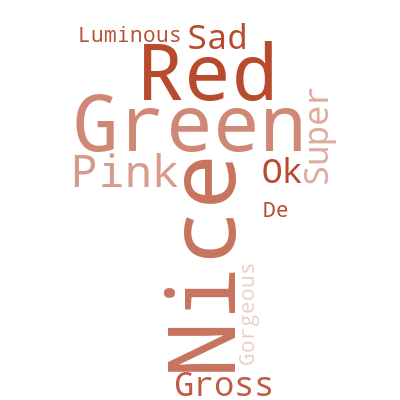
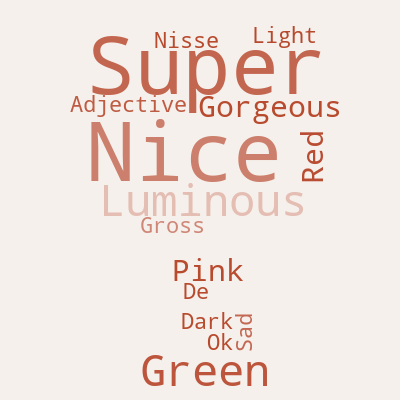
Updated styling

Changed region(s): [[0.18, 0.06, 0.87, 0.99]]

diff --git a/static/style.css b/static/style.css
@@ -323,12 +323,63 @@ button:active {
     box-shadow: none;
 }
 
+/* ─── WORDCLOUD FRAME ─────────────────────────────── */
+.wordcloud-frame {
+    position: relative;
+    display: inline-block;
+    padding: 16px;
+    border-radius: 20px;
+    border: 1.5px solid var(--border);
+    background: var(--frame-bg);
+    box-shadow: var(--frame-shadow);
+    transition: background 0.4s ease, border-color 0.4s ease, box-shadow 0.4s ease;
+}
+
+/* Rounded corner accent marks */
+.wordcloud-frame::before,
+.wordcloud-frame::after {
+    content: '';
+    position: absolute;
+    width: 28px;
+    height: 28px;
+    border-radius: 0;
+    transition: border-color 0.4s ease;
+    pointer-events: none;
+}
+
+.wordcloud-frame::before {
+    top: 6px;
+    left: 6px;
+    border-top: 2px solid var(--accent);
+    border-left: 2px solid var(--accent);
+    border-radius: 8px 0 0 0;
+}
+
+.wordcloud-frame::after {
+    bottom: 6px;
+    right: 6px;
+    border-bottom: 2px solid var(--accent);
+    border-right: 2px solid var(--accent);
+    border-radius: 0 0 8px 0;
+}
+
 img#wordcloud {
-    border-radius: 3px;
+    border-radius: 12px;
     max-width: 100%;
     height: auto;
     display: block;
-    transition: box-shadow 0.4s ease, filter 0.4s ease;
+    transition: filter 0.4s ease;
+}
+
+figcaption {
+    text-align: center;
+    margin-top: 10px;
+    font-family: "DM Mono", monospace;
+    font-size: 0.62rem;
+    letter-spacing: 0.2em;
+    text-transform: uppercase;
+    color: var(--muted);
+    transition: color 0.4s ease;
 }
 
 /* (theme toggle now lives in the header) */

diff --git a/templates/index.html b/templates/index.html
@@ -43,9 +43,11 @@
 
       <h2 class="text">Thank you &mdash; here are some other things that were said about this website:</h2>
 
-      <img id="wordcloud" src="{{ url_for('static', filename='images/cloud_light.png') }}"
-        alt="Wordcloud of the adjectives"  
-        height="400">
+      <figure class="wordcloud-frame">
+        <img id="wordcloud" src="{{ url_for('static', filename='images/cloud_light.png') }}"
+          alt="Wordcloud of the adjectives">
+        <figcaption>collected adjectives</figcaption>
+      </figure>
 
     </div>
   </div>

diff --git a/static/darkmode.css b/static/darkmode.css
@@ -14,6 +14,8 @@
     --header-bg: rgba(17, 23, 20, 0.88);
     --toggle-track: #253028;
     --toggle-thumb: #e8ede9;
+    --frame-bg: #161e18;
+    --frame-shadow: 0 4px 24px rgba(0,0,0,0.5), 0 0 40px rgba(126,234,160,0.05);
 }
 
 body {

diff --git a/static/lightmode.css b/static/lightmode.css
@@ -15,6 +15,8 @@
     --header-bg: rgba(245, 240, 232, 0.85);
     --toggle-track: #e8e0d4;
     --toggle-thumb: #b84a2e;
+    --frame-bg: #faf7f2;
+    --frame-shadow: 0 2px 8px rgba(60,40,20,0.08), 6px 6px 0 #e8e0d4;
 }
 
 body {

diff --git a/word_cloud_python.py b/word_cloud_python.py
@@ -30,7 +30,7 @@ def make_cloud(adjectives: dict):
         )
 
         # Dark version
-        wc = WordCloud(**shared_config, background_color="black")
+        wc = WordCloud(**shared_config, background_color="#1a1a1a")
         wc.generate_from_frequencies(frequencies)
         wc.recolor(color_func=colourmap)
         wc.to_file("static/images/cloud_dark.png")
@@ -49,7 +49,7 @@ def make_cloud(adjectives: dict):
         )
 
         # Light version
-        wc = WordCloud(**shared_config, background_color="white")
+        wc = WordCloud(**shared_config, background_color="#f5f0eb")
         wc.generate_from_frequencies(frequencies)
         wc.recolor(color_func=colourmap)
         wc.to_file("static/images/cloud_light.png")
